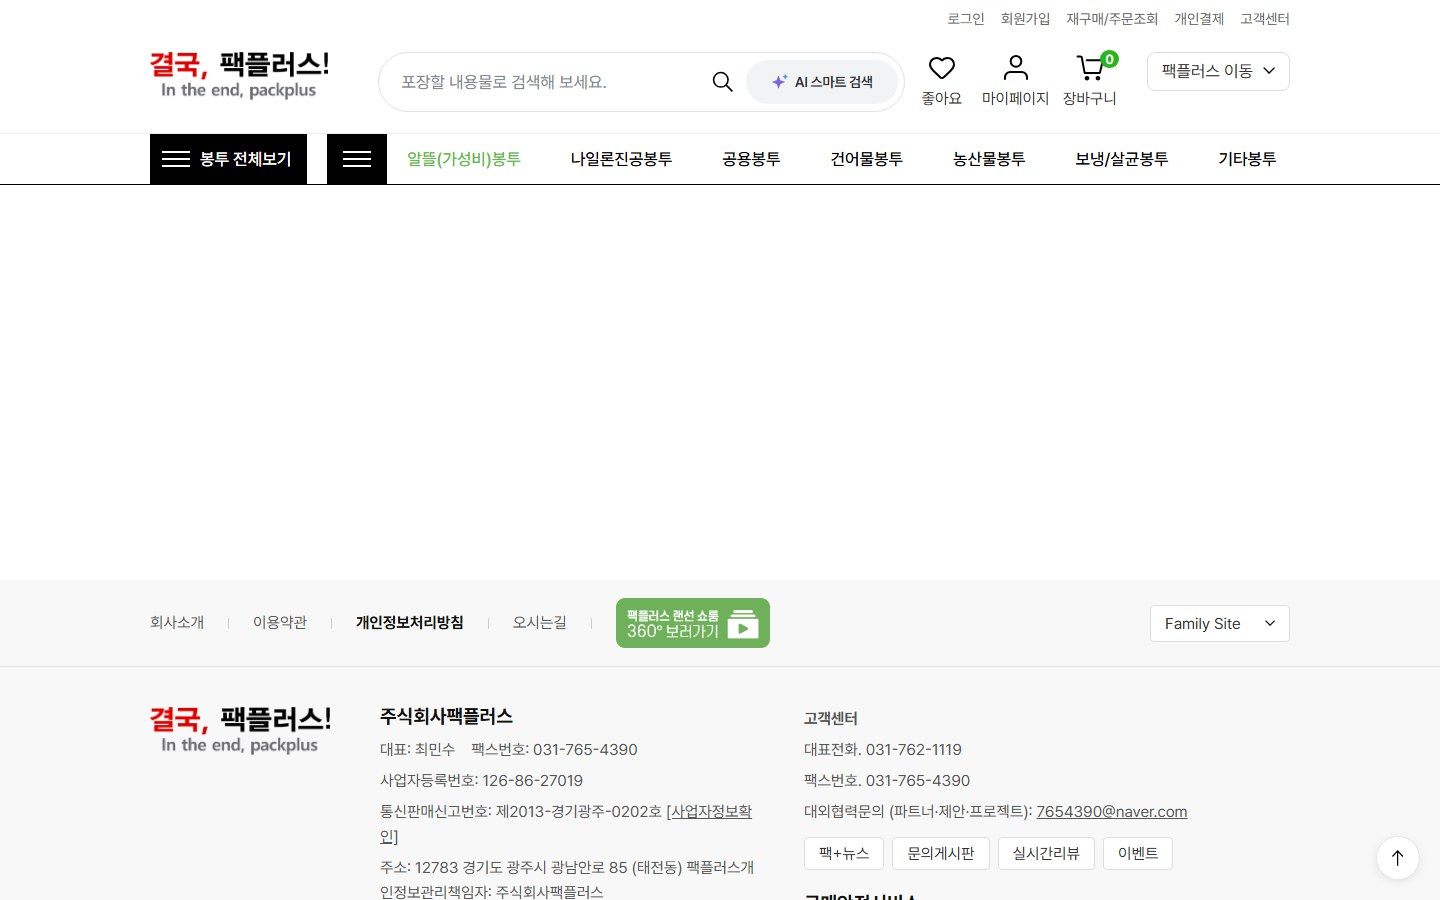
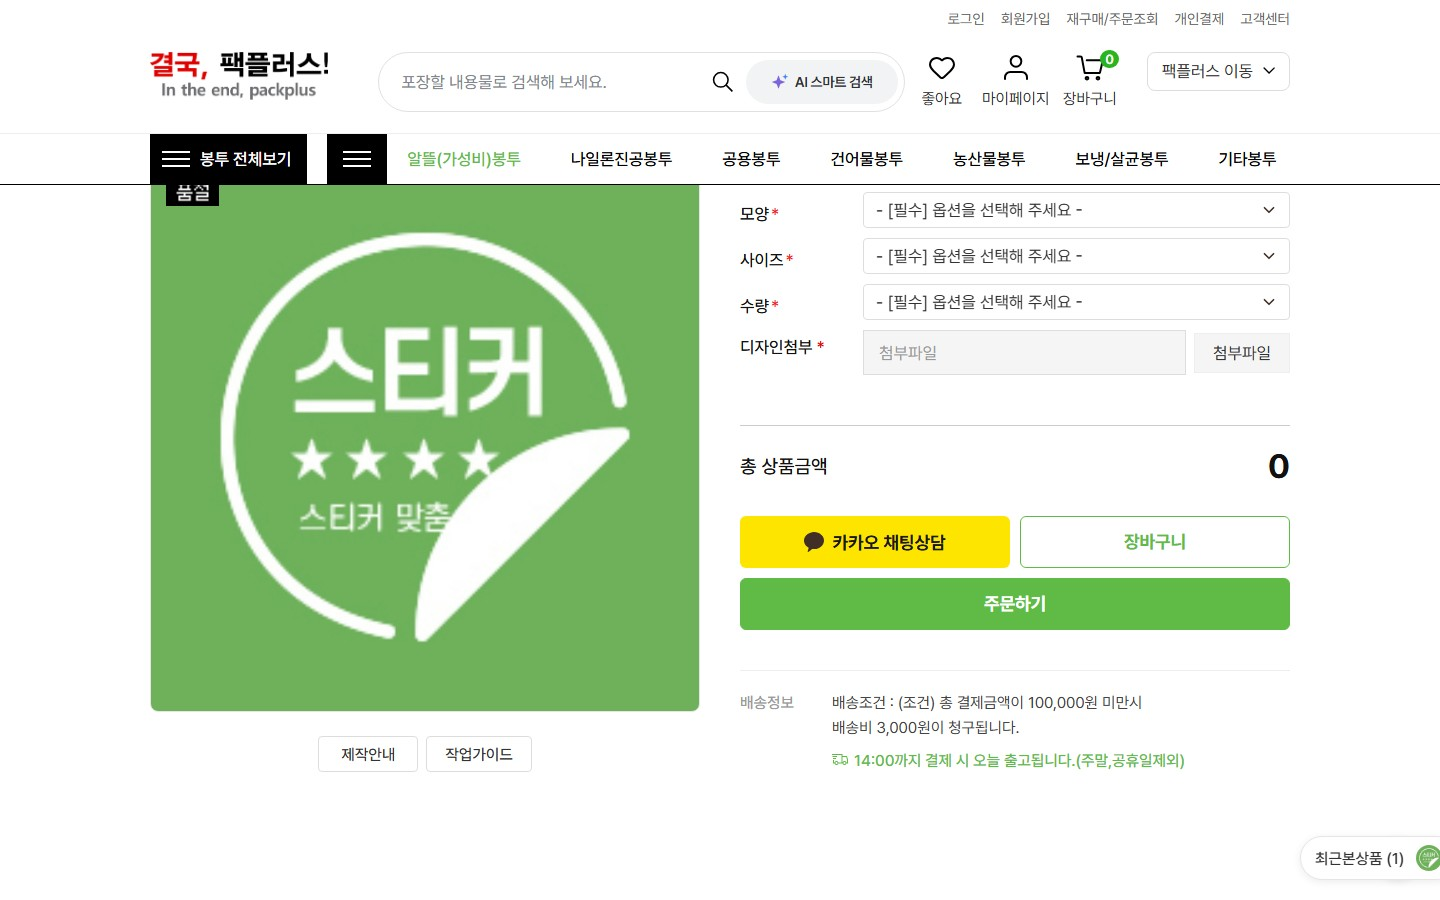
fix: 팩플러스 상품목록·s3 이미지 재캡쳐, 캡션 수정
- packplus-list: 카테고리 상품 48개 정상 로드된 화면
- gallery-s3: 빈 검색 결과 → 스티커 주문제작 옵션 폼으로 교체

diff --git a/project/detail/packplus.html b/project/detail/packplus.html
@@ -254,8 +254,8 @@ title: "PackPlus — 김유진 포트폴리오"
                 <span class="pj-gallery__caption">동판인쇄 주문제작</span>
             </div>
             <div class="pj-gallery__item js-fade">
-                <img loading="lazy" decoding="async" src="{{ '/assets/img/detail/packplus-gallery-s3.jpg' | relative_url }}" alt="검색">
-                <span class="pj-gallery__caption">상품 검색</span>
+                <img loading="lazy" decoding="async" src="{{ '/assets/img/detail/packplus-gallery-s3.jpg' | relative_url }}" alt="스티커 주문제작">
+                <span class="pj-gallery__caption">스티커 주문제작</span>
             </div>
             <div class="pj-gallery__item js-fade">
                 <img loading="lazy" decoding="async" src="{{ '/assets/img/detail/packplus-gallery-s7.jpg' | relative_url }}" alt="영문몰">
